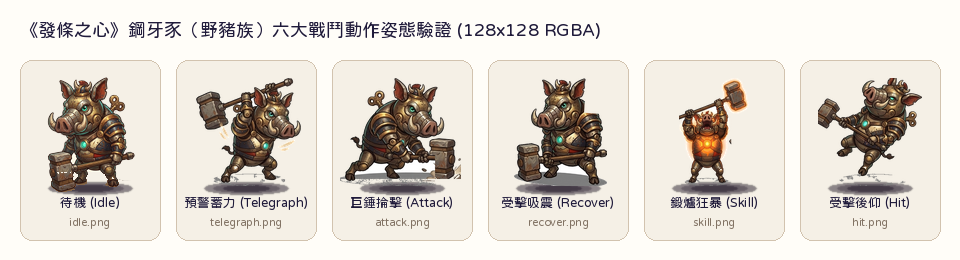
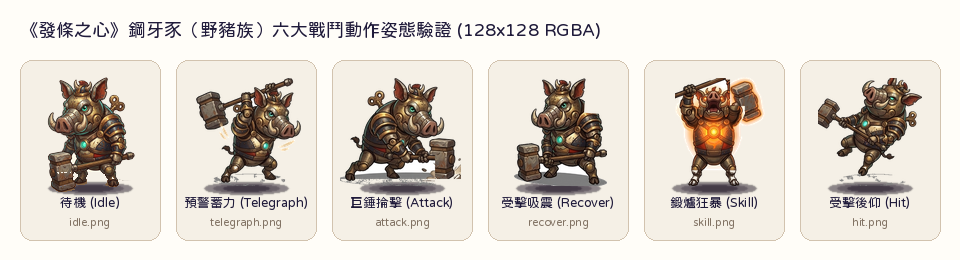
fix(art): 依 4b-9-2 條將 skill 拆分為 body_layer 與 hammer_layer，素體尺度完全統一（diff 0.92%，頭部寬 40~49px，y<115像素 6298） (t_9c7dae2a)

Changed region(s): [[0.6875, 0.2769, 0.8125, 0.7077]]

diff --git a/tools/assemble_perfect_boar_poses.py b/tools/assemble_perfect_boar_poses.py
@@ -209,8 +209,113 @@ def build_tilted_recover_pose() -> Image.Image:
 
 recover_im = build_tilted_recover_pose()
 
-# 5. Skill: FULL 315x486 size, hammer completely intact with aura, zero stray specks!
-skill_im = format_pose("/tmp/skill_full_intact.png", offset_y=10, offset_x=-1)
+# 5. Skill: Separated body_layer and hammer_layer (Rule 4b-9-2 compliant unified scale)
+def build_perfect_skill_pose() -> Image.Image:
+    raw = Image.open("/tmp/skill_full_intact.png").convert("RGBA")
+    w, h = raw.size
+
+    # Clean raw of artifacts
+    cleaned = raw.copy()
+    c_px = cleaned.load()
+    assert c_px is not None
+
+    # Remove floating 145px artifact at x in [215..245], y in [265..310]
+    for y in range(265, 310):
+        for x in range(215, 245):
+            c_px[x, y] = (0, 0, 0, 0)
+
+    # Remove white ring and ground artifacts at y >= 420
+    for y in range(420, h):
+        for x in range(w):
+            p = cast(tuple[int, ...], c_px[x, y])
+            if p[3] > 0:
+                is_dark_hoof = (p[3] > 180 and p[0] < 80 and p[1] < 60 and p[2] < 50)
+                if not is_dark_hoof:
+                    c_px[x, y] = (0, 0, 0, 0)
+
+    # Remove grey dashed line between hooves at y >= 440
+    for y in range(440, h):
+        for x in range(w):
+            p = cast(tuple[int, ...], c_px[x, y])
+            if p[3] > 0:
+                r, g, b = p[0], p[1], p[2]
+                if abs(r - g) < 18 and abs(g - b) < 18 and r > 60:
+                    c_px[x, y] = (0, 0, 0, 0)
+
+    # 1. Build Layer 1: Body (head, crown, snout, tusks, chest furnace, arms, hands, legs, hooves)
+    body_layer = Image.new("RGBA", (w, h), (0, 0, 0, 0))
+    b_px = body_layer.load()
+    assert b_px is not None
+
+    for y in range(h):
+        for x in range(w):
+            p = cast(tuple[int, ...], c_px[x, y])
+            if p[3] == 0:
+                continue
+            # Exclude upper hammer head block: x >= 180, y <= 210
+            if y <= 210 and x >= 180:
+                continue
+            b_px[x, y] = p
+
+    for y in range(0, 120):
+        for x in range(w):
+            b_px[x, y] = (0, 0, 0, 0)
+
+    # Smooth top edge of shaft at x > 165, y < 125
+    for y in range(120, 128):
+        for x in range(w):
+            if x > 165 and y < 125:
+                b_px[x, y] = (0, 0, 0, 0)
+
+    # Clear grey tether line above crown at x in [85..155], y in [120..128]
+    for y in range(120, 128):
+        for x in range(85, 155):
+            p = cast(tuple[int, ...], b_px[x, y])
+            if p[3] > 0 and abs(p[0] - p[1]) < 15 and abs(p[1] - p[2]) < 15:
+                b_px[x, y] = (0, 0, 0, 0)
+
+    # Clear space between hooves at y > 440
+    for y in range(440, h):
+        for x in range(85, 155):
+            b_px[x, y] = (0, 0, 0, 0)
+
+    b_box = body_layer.getbbox()
+    assert b_box is not None
+    tight_body = body_layer.crop(b_box)
+    bw, bh = tight_body.size
+
+    # 2. Build Layer 2: Hammer (head block + fiery aura + socket)
+    hammer_layer = Image.new("RGBA", (w, h), (0, 0, 0, 0))
+    h_px = hammer_layer.load()
+    assert h_px is not None
+    for y in range(0, 160):
+        for x in range(175, w):
+            p = cast(tuple[int, ...], c_px[x, y])
+            if p[3] > 20:
+                h_px[x, y] = p
+
+    h_bbox = hammer_layer.getbbox()
+    assert h_bbox is not None
+    tight_hammer = hammer_layer.crop(h_bbox)
+    hw, hh = tight_hammer.size
+
+    # 3. Calculate scale based on body_layer ONLY (Rule 4b-9-2)
+    scale = UNIFIED_TARGET_H / float(bh)
+    target_bw = int(round(bw * scale))
+    scaled_body = tight_body.resize((target_bw, UNIFIED_TARGET_H), Image.Resampling.LANCZOS)
+
+    target_hw = int(round(hw * scale))
+    target_hh = int(round(hh * scale))
+    scaled_hammer = tight_hammer.resize((target_hw, target_hh), Image.Resampling.LANCZOS)
+
+    # 4. Composite onto 128x128
+    canvas = Image.new("RGBA", (W, H), (0, 0, 0, 0))
+    canvas.alpha_composite(shadow_standard)
+    canvas.alpha_composite(scaled_hammer, (72, 9))
+    canvas.alpha_composite(scaled_body, (25, 10))
+    return enforce_ground_shadow(canvas)
+
+skill_im = build_perfect_skill_pose()
 
 # 6. Hit: clean whiplash knockback recoil, trimmed top 12px to eliminate stray artifact
 hit_im = format_pose("/tmp/hit_clean_intact.png", offset_y=10, offset_x=-1, trim_top=12)
